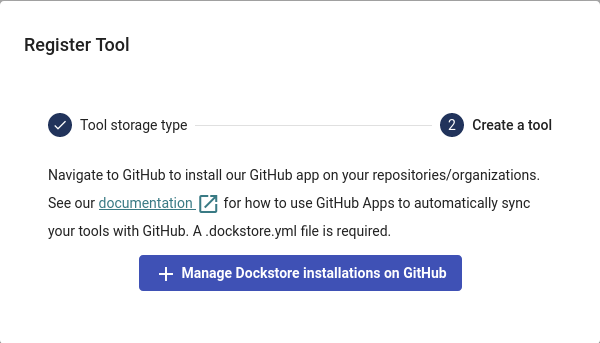
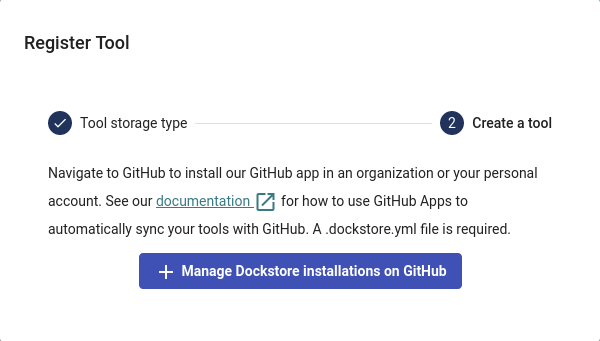
PR feedback

diff --git a/docs/getting-started/github-apps/snippet--installation.rst b/docs/getting-started/github-apps/snippet--installation.rst
@@ -23,14 +23,14 @@ Click ``+ Manage Dockstore Installations on GitHub``.
 .. image:: /assets/images/docs/manage-gh-app-installation.png
    :width: 50 %
 
-You'll then be redirected to GitHub where you can grant the app access to repositories within your personal account or organizations that you belong to. For example, the username for my personal GitHub account is aofarrel. If I want to install the GitHub App so it could access aofarrel/mycoolrepo, I would choose the first option here.
+You'll then be redirected to GitHub where you can install the app in an organization or your personal account. For example, the username for my personal GitHub account is aofarrel. If I want to install the GitHub App so it could access aofarrel/mycoolrepo, I would choose the first option here.
 
 .. figure:: /assets/images/docs/gh-app-install-where.png
    :width: 65 %
 
-   Install our GitHub App on repositories in your personal account or organizations that you belong to
+   Install our GitHub App in an organization or your personal account
 
-After selection of a personal account or an organization, you can select whether to give access to all current and future repositories or only select ones. If the personal account or organization you choose is intended to be just for Dockstore tools/workflows/services/notebooks, you may want to allow access to all repositories. Otherwise, it is may be more intuitive to select only certain repositories. Click save and you will be taken back to the page you started on in Dockstore -- either  ``/my-tools``, ``/my-workflows``, or ``/my-services``, depending on where you started.
+After selection of an organization or a personal account, you can select whether to give access to all current and future repositories or only select ones. If the organization or personal account you choose is intended to be just for Dockstore tools/workflows/services/notebooks, you may want to allow access to all repositories. Otherwise, it may be more intuitive to select only certain repositories. Click save and you will be taken back to the page you started on in Dockstore -- either  ``/my-tools``, ``/my-workflows``, or ``/my-services``, depending on where you started.
 
 .. important:: The GitHub user who first adds a workflow onto Dockstore must correspond to a user on Dockstore.
 

diff --git a/docs/getting-started/github-apps/github-apps-troubleshooting-tips.rst b/docs/getting-started/github-apps/github-apps-troubleshooting-tips.rst
@@ -13,7 +13,7 @@ GitHub App Troubleshooting & FAQs
 
 Why should I migrate my existing workflows to use GitHub Apps and a .dockstore.yml?
 ----------------------------------------------------------------------------------------
-Installing our Dockstore GitHub App onto repositories in your GitHub personal account or organization will automatically sync your workflow/tool on Dockstore whenever code is pushed to GitHub.
+Installing our Dockstore GitHub App onto repositories in a GitHub organization or your GitHub personal account will automatically sync your workflow/tool on Dockstore whenever code is pushed to GitHub.
 This means less manual work for workflow developers, and less waiting for content to update.
 
 This requires the addition of a .dockstore.yml file to your repository on GitHub.
@@ -91,8 +91,8 @@ The changes made to my GitHub repo aren't appearing on Dockstore, but I've alrea
 The general troubleshooting flow we recommend is the following:
 
 - Try waiting a couple of minutes and refreshing the browser on the My Workflows/My Tools page again. Sometimes, GitHub takes a few minutes to send Dockstore the changes made to a repository.
-- Verify that the GitHub app was given access to the right repository in your personal account or organization. 
-- If access was given to the wrong repository or personal account/organization, or this is your first time installing the app, you'll may need to push another commit after adding the correct repository to activate the sync to Dockstore.
+- Verify that the GitHub app was given access to the right repository in an organization or your personal account. 
+- If access was given to the wrong repository or organization/personal account, or this is your first time installing the app, you may need to push another commit after adding the correct repository to activate the sync to Dockstore.
 - Double check the .dockstore.yml file.
 
     - Is it in the root directory?

diff --git a/docs/getting-started/github-apps/migrating-workflows-to-github-apps.rst b/docs/getting-started/github-apps/migrating-workflows-to-github-apps.rst
@@ -6,8 +6,7 @@ Dockstore 1.9.0 provides users with a way to keep their workflows automatically 
 GitHub App Installation
 -----------------------
 
-The first step to migrating a workflow is the same as adding a new workflow via GitHub Apps: install our Dockstore GitHub App onto repositories in your personal account or
-organization, if you have not already done so.
+The first step to migrating a workflow is the same as adding a new workflow via GitHub Apps: install our Dockstore GitHub App in an organization or your personal account, if you have not already done so.
 
 .. include:: /getting-started/github-apps/snippet--installation.rst
 
@@ -16,7 +15,7 @@ organization, if you have not already done so.
 Creating a .dockstore.yml File
 -------------------------------
 
-Once the GitHub app is installed on the correct repository, the next step is to create a .dockstore.yml file. We'll cover a very straightforward example
+Once the GitHub app is installed and given access to the correct repository, the next step is to create a .dockstore.yml file. We'll cover a very straightforward example
 first, but depending on how you configured the workflow during registration and whether your GitHub repository houses multiple workflows published on Dockstore,
 there will be additional steps to writing your .dockstore.yml file.
 

diff --git a/docs/getting-started/dockstore-tools.rst b/docs/getting-started/dockstore-tools.rst
@@ -36,7 +36,7 @@ keeping Dockstore synced with GitHub automatically. You can learn more :doc:`in 
 
 .. include:: /getting-started/github-apps/snippet--installation.rst
 
-Once GitHub app is installed on a repository in your personal account or organization, you will need to add a .dockstore.yml file to
+Once the GitHub app is installed on a repository in an organization or your personal account, you will need to add a .dockstore.yml file to
 the root directory of a branch of the repository that contains your tool. This file contains information like
 tool path, test parameter file, tool name, etc. When a push is made or a tag is created on GitHub
 with a .dockstore.yml, Dockstore will add that branch to the corresponding tool on Dockstore. If the

diff --git a/docs/getting-started/dockstore-workflows.rst b/docs/getting-started/dockstore-workflows.rst
@@ -41,7 +41,7 @@ with GitHub automatically.
 
 .. include:: /getting-started/github-apps/snippet--installation.rst
 
-Once you've installed our GitHub app on a repository in your personal account or organization, you'll need to add a dockstore.yml file to
+Once you've installed our GitHub app on a repository in an organization or your personal account, you'll need to add a dockstore.yml file to
 the root directory of a branch of the repository that contains your workflow. This file contains information like
 workflow path, test parameter file, workflow name, etc. When a push is made on GitHub to a branch
 with a .dockstore.yml, Dockstore will add that branch to the corresponding workflow on Dockstore. If the
